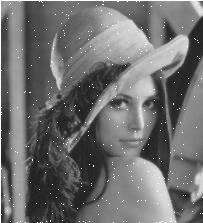
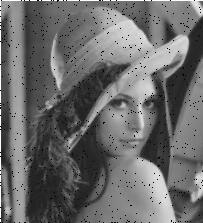
denoise test for different noises.

diff --git a/Denoising/Denoise.py b/Denoising/Denoise.py
@@ -4,43 +4,54 @@ import numpy as np
 import tools.tools as T
 
 origin_path = "Imgs/lena.jpg"
-img_path = "Imgs/Image_random.jpg"
+img_path = "Imgs/Image_pepper.jpg"
 img_save_path = "Imgs/"
-
+logfile_path = "Imgs/PSNR.txt"
+f = open(logfile_path,"w",encoding='utf=8')
 # 读取灰度图片
 origin_img = cv2.imread(origin_path,0)
 img = cv2.imread(img_path,0)
 print("原始的峰值信噪比：",T.psnr(origin_img,img))
+f.write("原始的峰值信噪比："+str(T.psnr(origin_img,img)))
+f.write("\n")
 # Gaussian Filter 高斯滤波
 out = sp.gauss.gaussian_filter(img, kernel_size=3, sigmax=1.3)
 # Save result
 cv2.imwrite(img_save_path + "gauss_out.jpg", out)
 # cv2.imshow("gauss_result", out)
 print("高斯滤波后的峰值信噪比：",T.psnr(origin_img,out))
-
-
+f.write("高斯滤波后的峰值信噪比："+str(T.psnr(origin_img,out)))
+f.write("\n")
 # median filter 中值滤波
 out = sp.median.MedianFilter(img_path,img_save_path + "Median_out.jpg",k=3,padding = None)
 print("中值滤波后的峰值信噪比：",T.psnr(origin_img,out))
+f.write("中值滤波后的峰值信噪比："+str(T.psnr(origin_img,out)))
+f.write("\n")
 # better median filter
 out = sp.betterMedian.BetterMedianFilter(img_path,img_save_path + "BetterMedian_out.jpg",k=3,padding = None)
 print("优化后中值滤波后的峰值信噪比：",T.psnr(origin_img,out))
+f.write("优化后中值滤波后的峰值信噪比："+str(T.psnr(origin_img,out)))
+f.write("\n")
 # bilateral filter 双边滤波
 out = cv2.bilateralFilter(src=img, d=0, sigmaColor=100, sigmaSpace=15)
 cv2.imwrite(img_save_path + "bilateral_out.jpg", out)
 print("双边滤波后的峰值信噪比：",T.psnr(origin_img,out))
-
+f.write("双边滤波后的峰值信噪比："+str(T.psnr(origin_img,out)))
+f.write("\n")
 # NLmean 非局部均值滤波
 sigma = 20
 out = cv2.fastNlMeansDenoising(img, None, sigma, 5, 11)
 cv2.imwrite(img_save_path + "opencvNLmean_out.jpg", out)
 print("opencv非局部均值滤波后的峰值信噪比：",T.psnr(origin_img,out))
+f.write("opencv非局部均值滤波后的峰值信噪比："+str(T.psnr(origin_img,out)))
+f.write("\n")
 out = sp.NLmean.NLmeansfilter(img.astype(np.float), sigma, 5, 11)
 out = T.double2uint8(out)
 cv2.imwrite(img_save_path + "NLmean_out.jpg", out)
 print("优化后非局部均值滤波后的峰值信噪比：",T.psnr(origin_img,out))
-
-
+f.write("优化后非局部均值滤波后的峰值信噪比："+str(T.psnr(origin_img,out)))
+f.write("\n")
+f.close()
 print("图片已保存至"+img_save_path+"文件夹下")
 # cv2.waitKey(0)
 # cv2.destroyAllWindows()

diff --git a/Denoising/CreateNoiseImg.py b/Denoising/CreateNoiseImg.py
@@ -3,7 +3,7 @@ import Adding_noise.noise as noise
 
 def main():
     imgpath = "Imgs/lena.jpg"
-    m = "random"
+    m = "pepper"
     cv2.imshow("Image", noise.noise(imgpath,"0"))
     cv2.imshow("Image_" + m, noise.noise(imgpath, m))
     cv2.imwrite("Imgs/Image_" + m + ".jpg", noise.noise(imgpath, m))
